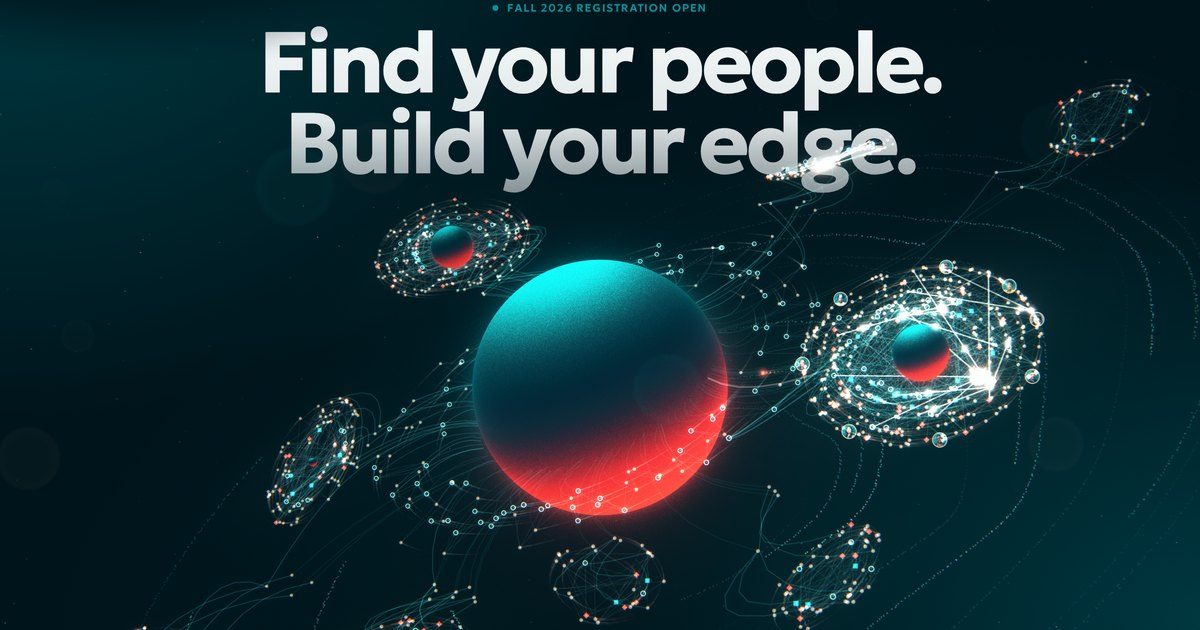
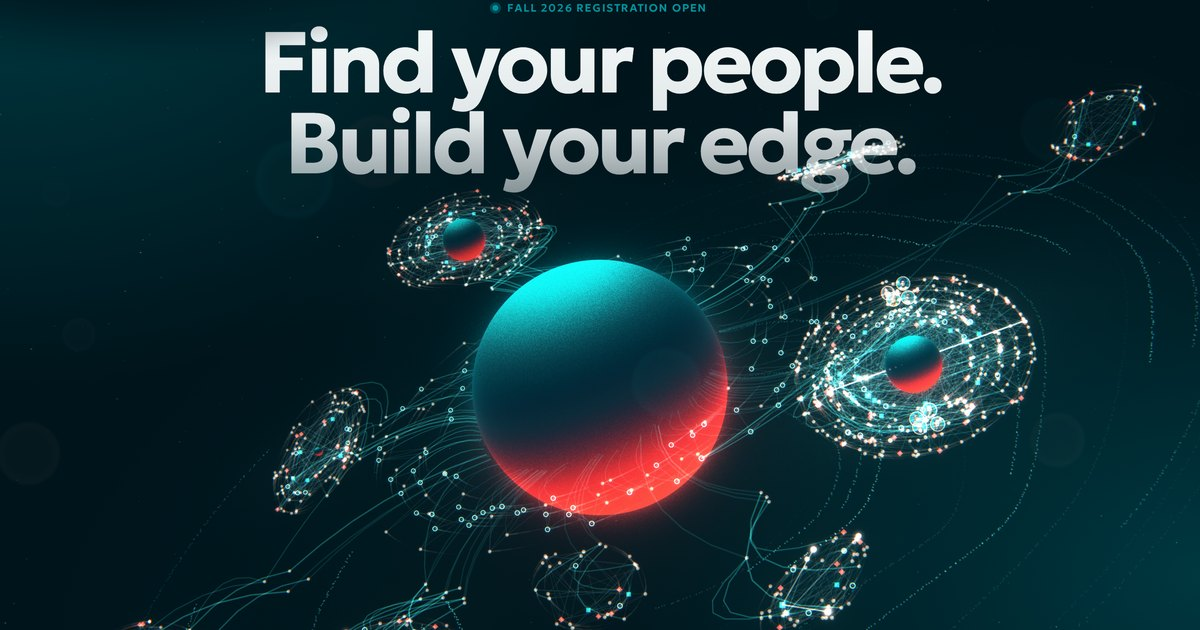
Home: recruit Upskillers and Mentors, benefits first
The hero's story now gives the core benefits one line at a time instead of
explaining the structure: learn by building something real, on a team; free,
in person, beside people who've been where you are (the camera closes on a
Pod, four of the cohort's faces round their project, while the rest of the
network steps back); what you build travels further than you; be part of
something bigger. It ends in two paths, Upskiller and Mentor, with "Most
people end up doing both." The legend is gone. The roles section shows the
two cards under "Learn it. Then pass it on." The intro and the build line
no longer make it about AI alone.

Also: actors size by the shot's framing and flashes and sparks soften where a
narrow screen packs the network tight, so phones don't blur a Lab into
white; the still frame ends after the sparks settle; the intro's faces get
back the styles #36 dropped; the poster and share image are re-rendered.

Claude-Session: https://claude.ai/code/session_01XKsNEHi8zSBaP9Uzfm5Zkd

diff --git a/src/scripts/orbnet.ts b/src/scripts/orbnet.ts
@@ -27,11 +27,13 @@
    cross, adopters form new ties, and what reaches the orb leaves new knowledge
    in the commons. Everything leaves a fading trail along its orbit.
 
-   The story (the page's scroll moves the camera through five shots):
+   The story, for the people we're recruiting (Upskillers and Mentors): it
+   doesn't explain the structure, it shows what you get and what you join.
+   The page's scroll moves the camera through five shots:
      0  the logo's view: the orb and the system round it, under the title
-     1  actors: inside the DC Lab, where the four kinds of actor are labelled
-     2  gravity: above the Labs, their wells and their pull
-     3  ideas: a spark from DC up to the orb and back out to every Lab
+     1  build: inside the DC Lab, projects sparking as people build
+     2  together: close on DC's people, the first cohort's faces lit
+     3  bigger: a spark from DC up to the orb and back out to every Lab
      4  you: the whole system from above; your cursor is a newcomer, and
         clicking (or tapping) joins you to the nearest Lab, with a spark
 
@@ -79,12 +81,12 @@ function mulberry(seed: number) {
 
 /* ── the story's shots: where the camera is at each beat ── */
 
-interface Shot { at: number; target: "orb" | "dc" | "between"; halfW: number; elev: number; roll: number; oElev: number; oRoll: number; yaw: number; sx: number; sy: number; px: number; py: number }
+interface Shot { at: number; target: "orb" | "dc" | "between" | "pod"; halfW: number; elev: number; roll: number; oElev: number; oRoll: number; yaw: number; sx: number; sy: number; px: number; py: number; pz?: number } // pz: how much closer a portrait screen frames it (0.6)
 const SHOTS: Shot[] = [
   { at: 0.0, target: "orb", halfW: 4.7, elev: 27, roll: 28, oElev: 15.4, oRoll: 22.5, yaw: 0, sx: 0, sy: -0.3, px: 0, py: -0.14 }, // the logo's view, under the title
-  { at: 0.25, target: "dc", halfW: 1.7, elev: 40, roll: 14, oElev: 28, oRoll: 16, yaw: -14, sx: 0.16, sy: 0.05, px: 0, py: 0.16 }, // inside a Lab
-  { at: 0.47, target: "between", halfW: 3.6, elev: 58, roll: 10, oElev: 38, oRoll: 12, yaw: 8, sx: 0.14, sy: 0.04, px: 0, py: 0.18 }, // gravity
-  { at: 0.69, target: "orb", halfW: 3.9, elev: 30, roll: 24, oElev: 18, oRoll: 21, yaw: -6, sx: 0.12, sy: 0.05, px: 0, py: 0.18 }, // an idea travels
+  { at: 0.25, target: "dc", halfW: 1.9, elev: 40, roll: 14, oElev: 28, oRoll: 16, yaw: -14, sx: 0.16, sy: 0.05, px: 0, py: 0.16 }, // build: inside a Lab
+  { at: 0.47, target: "pod", halfW: 0.62, elev: 30, roll: 6, oElev: 18, oRoll: 10, yaw: 20, sx: 0.2, sy: 0.02, px: 0, py: 0.22, pz: 0.45 }, // together: close on a Pod
+  { at: 0.69, target: "between", halfW: 3.9, elev: 30, roll: 24, oElev: 18, oRoll: 21, yaw: -6, sx: 0.12, sy: 0.05, px: 0, py: 0.18 }, // bigger: what you build travels
   { at: 0.92, target: "orb", halfW: 5.3, elev: 64, roll: 12, oElev: 40, oRoll: 16, yaw: 0, sx: 0.12, sy: 0.02, px: 0, py: 0.44 }, // you (on phones, high: the choice fills the lower half)
 ];
 /** Where each shot sits in the story's progress, for the page's chapter rail. */
@@ -122,6 +124,8 @@ class Model {
   labs: Lab[] = []; pulses: Pulse[] = []; ideas: Idea[] = []; ripples: { t0: number; s: number }[] = [];
   orbFlash = 0; kick = 0; ideaId = 0; nextMinor = 3.4; nextMajor = 4.2; nextSpawn = 4; startN = 0; tiesDirty = true;
   cursor: V3 | null = null;
+  pods: { project: number; members: number[] }[] = [];
+  podOf = new Map<number, number>();
 
   J(a: number) { return (this.rnd() * 2 - 1) * a; }
   pick<T>(a: T[]): T { return a[Math.floor(this.rnd() * a.length)]; }
@@ -180,10 +184,28 @@ class Model {
       }
     });
     this.labs.forEach((L) => { L.cap = L.mass * 1.35; });
-    // Some of DC's people are real: the first cohort's faces, spread round its outer orbits.
-    const dcPeople = this.labs[0].nodes.filter((i) => this.nodes[i].type === HUMAN).sort((a, b) => this.nodes[b].r - this.nodes[a].r).slice(0, 60);
-    dcPeople.sort((a, b) => this.nodes[a].th - this.nodes[b].th);
-    for (let f = 0; f < 8 && dcPeople.length; f++) this.nodes[dcPeople[Math.floor((f / 8) * dcPeople.length)]].face = f;
+    // Some of DC's people are real: the first cohort's faces, as two Pods of four, each round a project
+    // they're building, orbiting together (the "together" shot looks at the first).
+    const dc = this.labs[0];
+    const dcProjects = dc.nodes.filter((i) => this.nodes[i].type === PROJECT);
+    const free = dc.nodes.filter((i) => this.nodes[i].type === HUMAN);
+    for (let pod = 0; pod < 2 && dcProjects.length > pod; pod++) {
+      const pj = this.nodes[dcProjects[pod * Math.floor(dcProjects.length / 2)]];
+      pj.r = dc.size * (0.62 + 0.18 * pod); pj.th = pod * Math.PI + 0.4;
+      const members: number[] = [];
+      for (let k = 0; k < 4 && free.length; k++) {
+        const i = free.splice(Math.floor(this.rnd() * free.length), 1)[0];
+        const n = this.nodes[i];
+        // Round their project like a team round a table: a small ring, turning with it.
+        const phi = k * Math.PI / 2 + 0.6;
+        n.face = pod * 4 + k; n.r = pj.r + 0.085 * Math.cos(phi); n.th = pj.th + 0.085 * Math.sin(phi) / pj.r; n.y = pj.y + 0.02 * Math.sin(phi * 2);
+        this.link(i, dcProjects[pod * Math.floor(dcProjects.length / 2)]);
+        members.forEach((m) => this.link(i, m));
+        members.push(i);
+      }
+      this.pods.push({ project: dcProjects[pod * Math.floor(dcProjects.length / 2)], members });
+      [dcProjects[pod * Math.floor(dcProjects.length / 2)], ...members].forEach((i) => this.podOf.set(i, pod));
+    }
     this.startN = this.nodes.length;
     this.positions(0, 0);
     // The opening: everything gathers into its orbit from further out.
@@ -194,6 +216,16 @@ class Model {
   }
 
   add(a: Actor) { this.nodes.push(a); this.adj.push([]); return this.nodes.length - 1; }
+  inPod(i: number) { return this.podOf.has(i); }
+  /** A tie inside a Pod: both ends on the same team. */
+  podTie(e: Tie) { const a = this.podOf.get(e.a); return a !== undefined && a === this.podOf.get(e.b); }
+  /** Where the first Pod is now: the "together" shot looks at it. */
+  podCenter(): V3 {
+    const p = this.pods[0]; if (!p) return this.labs[0].c;
+    const ids = [p.project, ...p.members]; const c: V3 = [0, 0, 0];
+    ids.forEach((i) => { const q = this.nodes[i].p; c[0] += q[0]; c[1] += q[1]; c[2] += q[2]; });
+    return [c[0] / ids.length, c[1] / ids.length, c[2] / ids.length];
+  }
   linked(a: number, b: number) { return this.adj[a].some((e) => { const t = this.ties[e]; return (t.a === a && t.b === b) || (t.b === a && t.a === b); }); }
   link(a: number, b: number, bridge = false) {
     if (a === b || this.ties.length >= MAX_EDGES || this.linked(a, b)) return;
@@ -234,7 +266,7 @@ class Model {
       let w: number;
       if (n.c >= 0) {
         const pull = Math.sqrt(Math.max(this.labs[n.c].mass, 6) / 260);
-        w = clamp(0.13 * pull * Math.pow(0.45 / Math.max(n.r, 0.08), 1.5), 0.012, 0.42);
+        w = clamp(0.13 * pull * Math.pow(0.45 / Math.max(n.face !== undefined || this.inPod(i) ? this.labs[0].size * 0.7 : n.r, 0.08), 1.5), 0.012, 0.42);
       } else w = 0.07;
       if (n.anchor === undefined) n.th += w * dt;
       let target = n.anchor !== undefined ? [Math.cos(this.labs[n.anchor].th + n.th) * n.r, n.y, Math.sin(this.labs[n.anchor].th + n.th) * n.r] as V3 : this.orbitAt(n, n.th);
@@ -374,11 +406,16 @@ class Model {
     }
   }
 
-  step(dt: number, t: number, live: boolean, dcOnly: boolean) {
+  step(dt: number, t: number, live: boolean, dcOnly: boolean, dcBuild = false, podFocus = false) {
     if (live) {
-      // A heartbeat: a big idea every few seconds, small local ones between.
+      // A heartbeat: a big idea every few seconds, small local ones between (in DC while we're looking at it).
       if (t > this.nextMajor) { this.innovate(t, { lab: dcOnly ? 0 : undefined, major: true }); this.nextMajor = t + (dcOnly ? 3.4 : 4.6); this.nextMinor = t + 1.5; }
-      if (t > this.nextMinor) { this.innovate(t, { major: false }); this.nextMinor = t + 1.5; }
+      if (t > this.nextMinor) {
+        // Looking at a Pod: its ideas pass round the team.
+        const pd = podFocus ? this.pods[0] : undefined;
+        this.innovate(t, pd ? { from: this.pick([pd.project, ...pd.members]), major: false } : { lab: dcBuild ? 0 : undefined, major: false });
+        this.nextMinor = t + (pd ? 1.3 : dcBuild ? 1.1 : 1.5);
+      }
       if (t > this.nextSpawn) { this.spawn(t); this.nextSpawn = t + 0.8 + this.rnd() * 1.1; }
     }
     this.positions(dt, t);
@@ -424,7 +461,7 @@ const ACTOR_VS = `#version 300 es
 precision highp float;
 ${GLSL_CAM}
 ${GLSL_STATE}
-uniform float uPx; uniform int uFirst; uniform float uFocus; uniform float uFocusAmt; uniform float uZoom;
+uniform float uPx; uniform int uFirst; uniform float uFocus; uniform float uFocusAmt; uniform float uZoom; uniform float uDense;
 out vec4 vC; out float vShape; out float vFlash; out float vNear;
 void main() {
   int id = gl_VertexID + uFirst;
@@ -436,8 +473,9 @@ void main() {
   float g = S.w;
   float f = g < -0.5 ? 1.0 - 0.4 * uFocusAmt : (abs(g - uFocus) < 0.5 ? 1.0 + 0.8 * uFocusAmt : 1.0 - 0.6 * uFocusAmt);
   vC = vec4(colOf(S.z), P.w * f * (1.0 + 0.12 * depth));
-  vShape = S.z; vFlash = S.x; vNear = max(depth, 0.0);
-  gl_PointSize = S.y * uPx * uZoom * (uD / -v.z) * (1.0 + 0.12 * max(depth, 0.0) - 0.1 * max(-depth, 0.0)) * (1.0 + (S.z > 9.5 ? 0.15 : 0.6) * S.x);
+  float fl = S.z > 9.5 ? 1.0 : 0.4 + 0.6 * uDense; // where the network is packed tight on screen, a flash is smaller
+  vShape = S.z; vFlash = S.x * fl; vNear = max(depth, 0.0);
+  gl_PointSize = S.y * uPx * uZoom * (uD / -v.z) * (1.0 + 0.12 * max(depth, 0.0) - 0.1 * max(-depth, 0.0)) * (1.0 + (S.z > 9.5 ? 0.15 : 0.6 * fl) * S.x);
 }`;
 
 // Sparks and stars: points the CPU places (S: size, shape, flash, alpha; C: rgb, and for a star its depth).
@@ -520,9 +558,9 @@ ${GLSL_STATE}
 ${GLSL_QUAD}
 layout(location = 0) in vec2 aCorner;  // along (0, 1), side (-1, 1)
 layout(location = 1) in vec4 aTie;     // end a, end b (-1: the orb), segment (-1: straight), tie index
-layout(location = 2) in vec4 aKind;    // bridge, Lab of a, Lab of b, is-cursor
+layout(location = 2) in vec4 aKind;    // kind (0 a tie, 1 a bridge, 2 inside a Pod), Lab of a, Lab of b, is-cursor
 uniform highp sampler2D uTies;         // strength, flash
-uniform float uPx; uniform float uFocus; uniform float uFocusAmt; uniform int uTieW;
+uniform float uPx; uniform float uFocus; uniform float uFocusAmt; uniform int uTieW; uniform float uPod; uniform float uDense;
 vec3 orbEnd(vec3 o) { float l = max(length(o), 1e-3); return o / l * 1.03; }
 void main() {
   int ia = int(aTie.x), ib = int(aTie.y), ti = int(aTie.w);
@@ -538,13 +576,17 @@ void main() {
   }
   vec2 st = aKind.w > 0.5 ? vec2(1.0, 0.0) : texelFetch(uTies, ivec2(ti % uTieW, ti / uTieW), 0).xy;
   if (vis <= 0.002 || culled(M)) { gl_Position = vec4(2.0, 2.0, 2.0, 1.0); return; }
-  bool bridge = aKind.x > 0.5;
+  bool bridge = abs(aKind.x - 1.0) < 0.5, pod = aKind.x > 1.5;
+  // Close on a Pod: the team's own ties warm and brighten; everything else steps back.
+  if (!pod) { st.y *= (1.0 - 0.8 * uPod) * (0.35 + 0.65 * uDense); }
   float foc = uFocusAmt > 0.0 ? ((abs(aKind.y - uFocus) < 0.5 || abs(aKind.z - uFocus) < 0.5) ? 1.0 + 1.2 * uFocusAmt : 1.0 - 0.55 * uFocusAmt) : 1.0;
   float front = ib < 0 && (uM * M).z > 0.0 ? 0.35 : 1.0;
   float base = (bridge || ib < 0 ? 0.3 : 0.16) * st.x * foc * vis * front;
   vec3 col = mix(bridge || ib < 0 ? vec3(0.24, 0.9, 0.88) : vec3(0.5, 0.78, 0.8), vec3(1.0, 0.98, 0.94) * 1.25, st.y);
   if (aKind.w > 0.5) { col = vec3(1.0, 0.8, 0.55); base = 0.35 * vis; }
-  float width = ((bridge ? 1.3 : 0.85) + 0.45 * (st.x - 1.0) + 0.7 * st.y) * uPx;
+  if (pod) { col = mix(col, mix(vec3(1.0, 0.82, 0.62), vec3(1.0, 0.97, 0.9) * 1.25, st.y), uPod); base += 0.4 * uPod * vis; }
+  else base *= (1.0 - 0.55 * uPod) * (0.6 + 0.4 * uDense);
+  float width = ((bridge ? 1.3 : 0.85) + 0.45 * (st.x - 1.0) + 0.7 * st.y + (pod ? 0.8 * uPod : 0.0)) * uPx;
   quad(A, B, aCorner.x, aCorner.y, width, vec4(col, base + st.y * 0.4 * front));
 }`;
 
@@ -822,7 +864,7 @@ function compile(gl: WebGL2RenderingContext, vs: string, fs: string) {
   return { prog, U };
 }
 
-export interface FrameState { p: number; beats: number[]; legend: ({ x: number; y: number } | null)[]; you: { x: number; y: number } | null; orb: { x: number; y: number; r: number }; paused: boolean }
+export interface FrameState { p: number; beats: number[]; you: { x: number; y: number } | null; orb: { x: number; y: number; r: number }; paused: boolean }
 export interface OrbNetOptions { still?: boolean; poster?: boolean; story?: HTMLElement; stage?: HTMLElement; faces?: string[]; onFrame?: (s: FrameState) => void }
 export interface OrbNet { setPaused(v: boolean): void; paused(): boolean; setOrbHover(v: boolean): void }
 
@@ -1005,9 +1047,9 @@ export function mountOrbNet(wrap: HTMLElement, opts: OrbNetOptions = {}): OrbNet
   readScroll();
 
   /* the camera */
-  let cam = { M: [1, 0, 0, 0, 1, 0, 0, 0, 1] as M3, O: [1, 0, 0, 0, 1, 0, 0, 0, 1] as M3, T: [0, 0, 0] as V3, halfW: 4.7, tanX: 0.15, tanY: 0.1, sh: [0, 0] as [number, number] };
+  let cam = { M: [1, 0, 0, 0, 1, 0, 0, 0, 1] as M3, O: [1, 0, 0, 0, 1, 0, 0, 0, 1] as M3, T: [0, 0, 0] as V3, halfW: 4.7, zoomW: 4.7, dense: 1, tanX: 0.15, tanY: 0.1, sh: [0, 0] as [number, number] };
   const D = 30;
-  const shotTarget = (s: Shot): V3 => s.target === "dc" ? model.labs[0].c : s.target === "between" ? [model.labs[0].c[0] * 0.45, 0, model.labs[0].c[2] * 0.45] : [0, 0, 0];
+  const shotTarget = (s: Shot): V3 => s.target === "pod" ? model.podCenter() : s.target === "dc" ? model.labs[0].c : s.target === "between" ? [model.labs[0].c[0] * 0.45, 0, model.labs[0].c[2] * 0.45] : [0, 0, 0];
   const camera = (p: number, t: number) => {
     let i = 0; while (i < SHOTS.length - 2 && p > SHOTS[i + 1].at) i++;
     const a = SHOTS[i], b = SHOTS[i + 1];
@@ -1021,10 +1063,14 @@ export function mountOrbNet(wrap: HTMLElement, opts: OrbNetOptions = {}): OrbNet
     const orbV = mul(par, mul(rz(L("oRoll") * DEG), rx(L("oElev") * DEG)));
     // Portrait screens frame closer (the system runs off the sides), and keep the lower third for the lines.
     const portrait = cssW < cssH;
-    const halfW = L("halfW") * (portrait ? 0.6 : cssW < 900 ? 0.85 : 1) * (1 - 0.018 * shake);
+    const halfW = L("halfW") * (portrait ? lerp(a.pz ?? 0.6, b.pz ?? 0.6, k) : cssW < 900 ? 0.85 : 1) * (1 - 0.018 * shake);
     const tanX = halfW / D, tanY = tanX / (W / H);
     const sh: [number, number] = portrait ? [L("px"), L("py")] : [L("sx"), L("sy")];
-    cam = { M, O: orbV, T, halfW, tanX, tanY, sh };
+    // Actors grow as the shot closes in, by the shot's own framing: a narrow screen's closer crop
+    // doesn't make them bigger, or a Lab seen whole on a phone crowds into a white blur.
+    // And how tightly the network packs onto this screen, next to a wide desktop's view of the same shot.
+    const dense = clamp((cssW * L("halfW")) / (1440 * halfW), 0.45, 1);
+    cam = { M, O: orbV, T, halfW, zoomW: L("halfW"), dense, tanX, tanY, sh };
   };
   /** Where the pointer (CSS px in the canvas) meets the network's plane. */
   const pickPlane = (cx: number, cy: number): V3 | null => {
@@ -1046,9 +1092,8 @@ export function mountOrbNet(wrap: HTMLElement, opts: OrbNetOptions = {}): OrbNet
   /* the frame */
   const t0 = performance.now();
   let last = t0, lastReal = t0, simT = 0, frame = 0, introT = 0;
-  let legendPick: number[] = [];
   const fps = { acc: 0, n: 0 };
-  if (still) { for (let i = 0; i < 600; i++) { simT += 1 / 60; model.step(1 / 60, simT, i > 320, false); } }
+  if (still) { for (let i = 0; i < 720; i++) { simT += 1 / 60; model.step(1 / 60, simT, i > 320 && i < 570, false); } } // a still: the last sparks settling, not mid-burst
 
   function draw(now: number) {
     const dt = still || pausedFlag ? 0 : Math.min(0.05, (now - last) / 1000);
@@ -1060,7 +1105,7 @@ export function mountOrbNet(wrap: HTMLElement, opts: OrbNetOptions = {}): OrbNet
     const ease60 = (k: number) => 1 - Math.pow(1 - k, rdt * 60);
     scrollE = still ? scrollP : lerp(scrollE, scrollP, ease60(0.1));
     const p = scrollE, beats = beatWeights(p);
-    if (!still && !pausedFlag) { simT += dt; introT += dt; model.step(dt, simT, simT > 3.2, beats[3] > 0.5); }
+    if (!still && !pausedFlag) { simT += dt; introT += dt; model.step(dt, simT, simT > 3.2, beats[3] > 0.5, beats[1] + beats[2] > 0.5, beats[2] > 0.5); }
     const t = simT, grow = still ? 1 : clamp(introT / 3.4, 0, 1), g = 1 - Math.pow(1 - grow, 3);
     ptr.x = lerp(ptr.x, ptr.tx, ease60(0.06)); ptr.y = lerp(ptr.y, ptr.ty, ease60(0.06));
     orbHover = lerp(orbHover, orbHoverT, ease60(0.12));
@@ -1091,7 +1136,7 @@ export function mountOrbNet(wrap: HTMLElement, opts: OrbNetOptions = {}): OrbNet
       posArr[o] = a.p[0]; posArr[o + 1] = a.p[1]; posArr[o + 2] = a.p[2]; posArr[o + 3] = base * lit * born * (a.arrive && !a.arrive.intro ? 0.7 : 1);
       const size = a.face !== undefined ? 19 : a.type === YOU ? 12 : (a.type === HUMAN ? 7 : a.type === PLACE ? 9.5 : 10) * (1 + 0.08 * Math.sqrt(a.deg));
       if (a.face !== undefined) posArr[o + 3] = lit * born;
-      stArr[o] = a.type === YOU ? Math.max(a.flash, 0.5) : a.flash; stArr[o + 1] = size; stArr[o + 2] = a.face !== undefined ? 10 + a.face : a.type; stArr[o + 3] = a.c;
+      stArr[o] = a.type === YOU ? Math.max(a.flash, 0.5) : a.face !== undefined ? Math.max(a.flash, 0.55 * beats[2]) : a.flash; stArr[o + 1] = size; stArr[o + 2] = a.face !== undefined ? 10 + a.face : a.type; stArr[o + 3] = a.c;
       const trail = a.anchor !== undefined || a.arrive ? 0 : a.c < 0 ? 1 : a.c + 2;
       orbArr[o] = a.r; orbArr[o + 1] = a.th; orbArr[o + 2] = a.y; orbArr[o + 3] = trail;
     }
@@ -1110,7 +1155,7 @@ export function mountOrbNet(wrap: HTMLElement, opts: OrbNetOptions = {}): OrbNet
       model.ties.forEach((e, ti) => {
         const la = model.nodes[e.a].c, lb = e.b >= 0 ? model.nodes[e.b].c : -1;
         if ((e.bridge || e.b < 0) && k < MAX_TI - 16) for (let s = 0; s < 6; s++) put(e.a, e.b, s, ti, e.bridge ? 1 : 0, la, lb, 0);
-        else put(e.a, e.b, -1, ti, 0, la, lb, 0);
+        else put(e.a, e.b, -1, ti, model.podTie(e) ? 2 : 0, la, lb, 0);
       });
       tieFixed = k; model.tiesDirty = false;
     }
@@ -1126,7 +1171,9 @@ export function mountOrbNet(wrap: HTMLElement, opts: OrbNetOptions = {}): OrbNet
     gl!.bindTexture(gl!.TEXTURE_2D, tieTex); gl!.texSubImage2D(gl!.TEXTURE_2D, 0, 0, 0, TIEW, Math.ceil(model.ties.length / TIEW), gl!.RGBA, gl!.FLOAT, tieArr, 0);
     // Sparks.
     let sn = 0;
-    const putS = (q: V3, size: number, alpha: number, c: V3) => { const o = sn * 11; sparkArr.set([q[0], q[1], q[2], size, 5, 0, alpha, c[0], c[1], c[2], -1], o); sn++; };
+    // Smaller and softer where the network packs tight on screen, so a busy Lab on a phone stays a Lab.
+    const sS = 0.55 + 0.45 * cam.dense, sA = 0.5 + 0.5 * cam.dense;
+    const putS = (q: V3, size: number, alpha: number, c: V3) => { const o = sn * 11; sparkArr.set([q[0], q[1], q[2], size * sS, 5, 0, alpha * sA, c[0], c[1], c[2], -1], o); sn++; };
     for (const pu of model.pulses) {
       if (t < pu.t0) continue;
       const u = clamp((t - pu.t0) / pu.dur, 0, 1);
@@ -1175,7 +1222,7 @@ export function mountOrbNet(wrap: HTMLElement, opts: OrbNetOptions = {}): OrbNet
     };
     const drawTies = (side: number) => {
       add(); gl!.useProgram(P.tie.prog); gl!.bindVertexArray(TI.v); camU(P.tie.U, side); stateU(P.tie.U); focusU(P.tie.U);
-      gl!.activeTexture(gl!.TEXTURE4); gl!.bindTexture(gl!.TEXTURE_2D, tieTex); gl!.uniform1i(P.tie.U.uTies, 4); gl!.uniform1i(P.tie.U.uTieW, TIEW);
+      gl!.activeTexture(gl!.TEXTURE4); gl!.bindTexture(gl!.TEXTURE_2D, tieTex); gl!.uniform1i(P.tie.U.uTies, 4); gl!.uniform1i(P.tie.U.uTieW, TIEW); gl!.uniform1f(P.tie.U.uPod, beats[2]); gl!.uniform1f(P.tie.U.uDense, cam.dense);
       gl!.uniform2f(P.tie.U.uRes, W, H); gl!.uniform1f(P.tie.U.uPx, dpr * quality);
       gl!.drawArraysInstanced(gl!.TRIANGLE_STRIP, 0, 4, tieCount);
     };
@@ -1186,7 +1233,7 @@ export function mountOrbNet(wrap: HTMLElement, opts: OrbNetOptions = {}): OrbNet
     };
     const drawActors = (side: number) => {
       add(); gl!.useProgram(P.actor.prog); gl!.bindVertexArray(EMPTY); camU(P.actor.U, side); stateU(P.actor.U); focusU(P.actor.U);
-      gl!.uniform1f(P.actor.U.uPx, px); gl!.uniform1i(P.actor.U.uFirst, 0); gl!.uniform1f(P.actor.U.uZoom, Math.pow(clamp(4.7 / cam.halfW, 1, 2.8), 0.7));
+      gl!.uniform1f(P.actor.U.uPx, px); gl!.uniform1i(P.actor.U.uFirst, 0); gl!.uniform1f(P.actor.U.uZoom, Math.pow(clamp(4.7 / cam.zoomW, 1, 2.8), 0.7)); gl!.uniform1f(P.actor.U.uDense, cam.dense);
       gl!.activeTexture(gl!.TEXTURE5); gl!.bindTexture(gl!.TEXTURE_2D, facesTex); gl!.uniform1i(P.actor.U.uFaces, 5); gl!.uniform1f(P.actor.U.uFacesReady, facesReady);
       gl!.drawArrays(gl!.POINTS, 0, N);
       if (model.cursor) { gl!.uniform1i(P.actor.U.uFirst, CURSOR); gl!.drawArrays(gl!.POINTS, 0, 1); }
@@ -1258,25 +1305,10 @@ export function mountOrbNet(wrap: HTMLElement, opts: OrbNetOptions = {}): OrbNet
 
     if (!wrap.classList.contains("is-live")) wrap.classList.add("is-live");
 
-    // Tell the page what's on screen: the story's progress, each beat's weight, where the legend's actors are, and you.
+    // Tell the page what's on screen: the story's progress, each beat's weight, the orb, and you.
     if (opts.onFrame) {
-      if (beats[1] > 0.01) {
-        if (!legendPick.length || legendPick.some((i) => { if (i < 0) return true; const s = project(model.nodes[i].p); return s.x < cssW * 0.12 || s.x > cssW * 0.92 || s.y < cssH * 0.2 || s.y > cssH * 0.85; })) {
-          legendPick = [HUMAN, PLACE, PROJECT, KNOW].map((type) => {
-            let best = -1, bs = -1e9;
-            for (const i of model.labs[0].nodes) {
-              const a = model.nodes[i]; if (a.type !== type || a.arrive) continue;
-              const s = project(a.p); if (s.x < cssW * 0.28 || s.x > cssW * 0.88 || s.y < cssH * 0.22 || s.y > cssH * 0.84) continue;
-              const score = s.z - Math.abs(s.x - cssW * 0.58) * 0.002 + (a.face !== undefined ? 50 : 0);
-              if (score > bs) { bs = score; best = i; }
-            }
-            return best;
-          });
-        }
-      } else legendPick = [];
       opts.onFrame({
         p, beats, paused: pausedFlag,
-        legend: [0, 1, 2, 3].map((k) => { const i = legendPick[k]; if (i === undefined || i < 0) return null; const s = project(model.nodes[i].p); return { x: s.x, y: s.y }; }),
         you: model.cursor ? (() => { const s = project(model.cursor!); return { x: s.x, y: s.y }; })() : null,
         orb: (() => { const s = project([0, 0, 0]); return { x: s.x, y: s.y, r: (1 / (-s.z * cam.tanX)) * 0.5 * cssW }; })(),
       });

diff --git a/src/styles/home.css b/src/styles/home.css
@@ -44,20 +44,16 @@
 .hm-path span { font-size: 12px; font-weight: 600; letter-spacing: 0.08em; text-transform: uppercase; color: var(--teal); }
 .rp .hm-path:hover, .rp .hm-path:focus-visible { border-color: var(--teal); background: rgba(0, 148, 160, 0.16); }
 .hm-path:focus-visible { outline: 2px solid var(--teal); outline-offset: 2px; }
-.hm-curious { display: inline-block; margin-top: 14px; font-size: var(--fs-sm); font-weight: 600; }
+.hm-both { margin: 12px 0 0; font-size: var(--fs-sm); color: var(--t2); }
+.hm-curious { display: inline-block; margin-top: 10px; font-size: var(--fs-sm); font-weight: 600; }
 .hm-beat-hint { margin: 14px 0 0; font-size: var(--fs-sm); color: var(--t2); }
 .hm-beat-hint .coarse { display: none; }
 @media (hover: none) { .hm-beat-hint .fine { display: none; } .hm-beat-hint .coarse { display: inline; } }
 
-/* The legend: the four kinds of actor, each pinned to a real one in the DC Lab. */
-.hm-legend { margin: 0; padding: 0; list-style: none; }
+/* "You": a tag that follows your cursor, a newcomer in the system. */
 .hm-tag { position: absolute; z-index: 3; left: 0; top: 0; margin: 0; display: inline-flex; align-items: center; gap: 8px; padding: 5px 10px 5px 8px; border: 1px solid rgba(255, 255, 255, 0.16); border-radius: 999px; background: rgba(0, 20, 27, 0.62); -webkit-backdrop-filter: blur(6px); backdrop-filter: blur(6px);
   font-size: 12px; font-weight: 600; letter-spacing: 0.08em; text-transform: uppercase; color: var(--t1); white-space: nowrap; opacity: 0; pointer-events: none; translate: 14px -50%; transition: opacity 0.2s; will-change: transform, opacity; }
 .mk { display: block; width: 9px; height: 9px; flex: none; }
-.mk-0 { border-radius: 50%; background: #FFDBBD; }
-.mk-1 { border-radius: 1px; background: #24D6DB; }
-.mk-2 { width: 8px; height: 8px; rotate: 45deg; background: #FF5C47; }
-.mk-3 { border-radius: 50%; border: 2px solid #9EFFF7; }
 .mk-you { border-radius: 50%; background: #FFC880; box-shadow: 0 0 10px 2px rgba(255, 200, 128, 0.7); }
 .hm-you { translate: 16px -50%; color: #FFE3C2; }
 
@@ -97,11 +93,19 @@
 .is-still .hm-beat-hint { display: none; }
 .is-still .hm-beat { position: static; opacity: 1 !important; transform: none !important; }
 .is-still .hm-beat-line { font-size: var(--fs-lead); }
-.is-still .hm-cue, .is-still .hm-legend, .is-still .hm-you { display: none; }
+.is-still .hm-cue, .is-still .hm-you { display: none; }
 
 .hm-actions { display: flex; flex-wrap: wrap; align-items: center; justify-content: center; gap: 16px 28px; }
 .hm-actions .textlink { font-size: 17px; font-weight: 600; }
 .rp .ghost.small { min-height: 44px; padding: 0 18px; font-size: 15px; }
+
+/* ── intro: the cohort's faces, overlapping, over how many people are in so far. ── */
+.hm-people { margin-top: 36px; display: flex; flex-direction: column; align-items: center; gap: 14px; }
+.hm-faces { list-style: none; margin: 0; padding: 0; display: flex; }
+.hm-faces li { width: 56px; height: 56px; margin-left: -12px; border-radius: 50%; border: 2px solid var(--ink); overflow: hidden; background: var(--ink); }
+.hm-faces li:first-child { margin-left: 0; }
+.hm-faces img { display: block; width: 100%; height: 100%; object-fit: cover; }
+.hm-people p { margin: 0; font-size: var(--fs-sm); font-weight: 600; color: var(--t2); }
 
 /* ── the next Build Cycle: a band lit by the glows, with the Upskiller button. ── */
 .hm-cycle { position: relative; isolation: isolate; margin-top: clamp(112px, 16vh, 164px); padding: clamp(72px, 10vh, 120px) 0; overflow-x: clip; }
@@ -129,6 +133,10 @@
 .hm-learn { list-style: none; margin: clamp(56px, 7vw, 96px) 0 0; padding: 0; display: grid; grid-template-columns: repeat(3, minmax(0, 1fr)); column-gap: var(--gut); }
 .hm-learn h3 { margin: 0; font-size: var(--fs-lead); font-weight: 600; letter-spacing: -0.02em; color: var(--t1); }
 .hm-learn p { margin: 12px 0 0; max-width: 32ch; font-size: var(--fs-body); line-height: 1.55; color: var(--t2); }
+
+/* ── roles: the two ways in, side by side. ── */
+.rp .rp-cards.hm-two { grid-template-columns: repeat(2, minmax(0, 1fr)); grid-auto-flow: row; max-width: 820px; margin-inline: auto; overflow: visible; }
+@media (max-width: 680px) { .rp .rp-cards.hm-two { grid-template-columns: minmax(0, 1fr); } }
 
 /* ── the room: a real evening at the library, full bleed, fading into the ink. ── */
 .hm-room { position: relative; isolation: isolate; margin-top: clamp(96px, 14vh, 160px); min-height: clamp(460px, 78vh, 820px); display: flex; align-items: flex-end; overflow: hidden; }

diff --git a/README.md b/README.md
@@ -69,7 +69,7 @@ These also need real values:
 
 | Route | What |
 | --- | --- |
-| `/` | **Unlisted** (`noindex`): The Upskilling Labs home page, a prototype of the pre-login experience for OLOS (the app behind theupskillinglabs.org) to adopt. It keeps the live home page's facts and its one action (Join The Labs), in the order a newcomer needs them: the hero (the open cycle as its eyebrow, "Find your people. Build your edge.", and a live model of The Labs round the orb: `src/scripts/orbnet.ts`, below), the cohort's faces under the intro, what this is (four facts), how it works (workshop, the three months of a Build Cycle, giving back), the next Build Cycle with the Upskiller button, sessions to drop into and what they teach, a real evening at the library (Pull up a chair), find your role (the five role pages), Upskiller spotlights with their portraits, local Labs, our story, join, and the live site's footer columns. It's built on the role pages' system (`src/styles/role.css`, plus `src/styles/home.css`). Copy in `content/site/home.json`; the sessions, cities and member count there are a snapshot from Sep 29, 2026 that OLOS would fill from its own data, and links point at the live site. The Ambassador program page moved to `/ambassador/`; `/join/` redirects there. The faces and the room are OLOS's own photos (`public/assets/cohort-grid-sample.png`, `spotlights/`, `img_9531.jpg`), cropped into `public/home/`. |
+| `/` | **Unlisted** (`noindex`): The Upskilling Labs home page, a prototype of the pre-login experience for OLOS (the app behind theupskillinglabs.org) to adopt. It keeps the live home page's facts and its one action (Join The Labs), in the order a newcomer needs them: the hero (the open cycle as its eyebrow, "Find your people. Build your edge.", and a live model of The Labs round the orb: `src/scripts/orbnet.ts`, below), the cohort's faces under the intro, what this is (four facts), how it works (workshop, the three months of a Build Cycle, giving back), the next Build Cycle with the Upskiller button, sessions to drop into and what they teach, a real evening at the library (Pull up a chair), two ways in (Upskiller and Mentor, the two roles the page recruits for; most people end up doing both), Upskiller spotlights with their portraits, local Labs, our story, join, and the live site's footer columns. It's built on the role pages' system (`src/styles/role.css`, plus `src/styles/home.css`). Copy in `content/site/home.json`; the sessions, cities and member count there are a snapshot from Sep 29, 2026 that OLOS would fill from its own data, and links point at the live site. The Ambassador program page moved to `/ambassador/`; `/join/` redirects there. The faces and the room are OLOS's own photos (`public/assets/cohort-grid-sample.png`, `spotlights/`, `img_9531.jpg`), cropped into `public/home/`. |
 | `/ambassador/`, `/upskiller/`, `/poderator/`, `/mentor/`, `/supporting-member/` | **Unlisted drafts** (`noindex`) until the board approves the roles: one recruitment page per role button (`/ambassador/` is the Ambassador program page, with its brass moment pins; every "Become an ambassador" goes to `/apply/`), all from one template (`src/components/RolePage.astro`, styles in `src/styles/role.css`, words in `content/roles/<slug>.json`, the list of roles in `content/roles/roles.json`). The structure follows two product pages for a single round object, Apple's AirTag and Lusion's Oryzo; the look is the program page's (ink, the teal and red glows with the grain only inside them, Geologica, hairline rules, teal labels, The Futur's type steps). In order: the hero (the role's name, one line, and its button centred, with rings slowly spreading out from it; live 3D on wide screens with a mouse and a real GPU, a Cycles still otherwise); the intro (a few sentences, what the role asks of you, the one button); what you'll do (three moments as rows: label, line, sentence); in short (four facts with small icons); how it works (the steps, a white dot where the account starts and a teal one where the button is given); the button drawn face on from its print file, with its cut line, construction marks and callouts; which role is right for you (every role's button side by side, sideways-scrolling on narrow screens); questions; join. The buttons are the art script's output for each role word (`design/button/tools/button_art_text.py`), rendered in LabsPin.blend's "Button Hero" scene like the Ambassador one: `public/roles/<slug>/` (the web art for the 3D, the hero stills, and a small still for the comparison). Every path starts with the same free Upskilling account (OLOS manages everything centrally): each role's button goes to account creation on the live site with the role as `?path=<slug>` (proposed; OLOS doesn't read it yet), the first step on every path is "Create your account.", a line under each button says so, and every page's questions end with why. The logo always sits on the header's pool of ink; the band and blur across the top fade in once the page scrolls. Unset details are marked `[PLACEHOLDER]` and shown with a dashed underline. |
 | `/contributing/` | **Unlisted** (`noindex`, not linked from the program page) until the board approves the levels: the Contributor Community: joining it and working your way up. The hero says so ("Contributor Community") over the Contributing Member pin in live 3D (desktop with a real GPU; Cycles stills otherwise); why here (in person, beginners and experts side by side, learning by doing, local problems); four ways in (make something, take a role, teach what you know, or back it as a Supporting Member), then how the pin works whichever door you take; the way up, one section for the four levels (Contributing Member, Reviewer, Approver, Maintainer), each more workstreams hands-on: on wide screens the stage holds while you scroll and the pin builds level by level, a level picker jumps to any of them, and the pin can be dragged to turn; on phones the picker is tabs over one pin; how recognition happens; active or emeritus; what stays true. Like the program page, it's in three chapters, each opened by a full-width cover on the same macro shots of the pin (`src/components/JoinCover.astro`, with this page's taglines: Start anywhere, Go as far as you like, Yours for good). The 3D is `src/scripts/rankpin.ts` on top of `public/join/pin3d.js`; renders in `public/contributing/`. Copy in `content/site/contributing.json`, from `design/research/recognition-system.md`. `/roles/`, `/pin/` and `/contributors/` redirect here. |
 | `/apply/` | Getting in (orientation), one screen at a time, in the order that gives before it takes: The Labs in three minutes (the film, or the short read the questions are written from), the coordinator's ten-question quiz (eight right to pass, retry any time, a hint on each), the Ambassador Agreement, then your name (first and last, email, ZIP, who brought you in). Ends with **the pass**: "You're in", the button, your name, and "Show this to your coordinator", who hands you the button at the event. Then the signature question, **Who's first?**: one name, and your phone sends the dated invite (the same message as the Conversation step). People without a pre-approved invite see "Almost there" until the coordinator sends them an invite link; opening it confirms them. An invite link pre-fills the form and shows who invited them; a share link (`/apply/#ref=Name`) only fills "Who brought you in?". Copy in `content/site/apply.json`. |
@@ -141,7 +141,7 @@ The site never sends personal information anywhere. The ambassador application (
 
 ## Assets
 
-The home page's hero (`src/scripts/orbnet.ts`) is a live model of The Labs, plain WebGL 2, no library. The Labs as a federated, practice-based research network, drawn the way actor-network theory sees one: people, places, projects and knowledge are all actors (a warm dot, a teal square, a red diamond, a pale ring), and a Lab is nothing but their ties. Local Labs orbit the orb; a commons of contributors and shared knowledge circles it; contributors bridge each Lab to the commons. It behaves like a complex adaptive system: newcomers drift in and are pulled into the Lab with the strongest pull near them, and ideas that spread leave new ties. Gravity is the density of relationships: a dense Lab's actors orbit tighter and faster, it pulls in more newcomers, glows, bends the orbits under it into a deeper well, and past a density closes into a small orb of its own. Innovations are sparks: out along a project's ties (white), up through the commons to the orb (red), and, after the orb flares and a ripple crosses the orbits, back out to every Lab (teal); each spark strengthens the ties it crosses, and what reaches the orb leaves new knowledge in the commons. The orb is the logo's: its three bands are latitude bands round one pole, fitted to `orb-mark.png` (rolled 22.5° left, tilted 15.4° toward the viewer), coloured from the mark by latitude. The hero is a short story told by scrolling: the stage stays pinned while the camera moves through five shots (the logo's view under the title; inside the DC Lab, with a legend pinned to real actors; above the Labs, their gravity; a spark up to the orb and back out; and you), each with one line (`content/site/home.json`, `model`). Some of DC's people are real: the first cohort's portraits (`public/home/`), and the legend's People label pins to one of them. Your cursor is a newcomer the actors nearest it reach for, and clicking (or tapping) anywhere joins you to the nearest Lab with a spark of your own; the orb itself is the page's button, "Become an Upskiller", a real link laid over it and labelled from the first frame. The last shot ends in a choice of path (learn, share what you know, spread the word, keep a Pod together, each straight to the account with its path, or just drop into a session), and a chapter rail marks the shots and lets you skip the story. It's rendered into a high-range buffer with a finishing pass (bloom on true highlights, a gentle shoulder that keeps the brand colours, grain only in the light, a shockwave when an idea reaches the orb) and composited over the page with screen blending, so the title sits inside its light. Quality adapts to the frame rate; there's a pause button; reduced motion gets a still frame and the four lines as a list; no WebGL keeps the poster (`public/join/hub-poster.webp`). To re-render the poster and the share image, open `/?orb=poster` and save the canvas (it's drawn with `preserveDrawingBuffer`).
+The home page's hero (`src/scripts/orbnet.ts`) is a live model of The Labs, plain WebGL 2, no library. The Labs as a federated, practice-based research network, drawn the way actor-network theory sees one: people, places, projects and knowledge are all actors (a warm dot, a teal square, a red diamond, a pale ring), and a Lab is nothing but their ties. Local Labs orbit the orb; a commons of contributors and shared knowledge circles it; contributors bridge each Lab to the commons. It behaves like a complex adaptive system: newcomers drift in and are pulled into the Lab with the strongest pull near them, and ideas that spread leave new ties. Gravity is the density of relationships: a dense Lab's actors orbit tighter and faster, it pulls in more newcomers, glows, bends the orbits under it into a deeper well, and past a density closes into a small orb of its own. Innovations are sparks: out along a project's ties (white), up through the commons to the orb (red), and, after the orb flares and a ripple crosses the orbits, back out to every Lab (teal); each spark strengthens the ties it crosses, and what reaches the orb leaves new knowledge in the commons. The orb is the logo's: its three bands are latitude bands round one pole, fitted to `orb-mark.png` (rolled 22.5° left, tilted 15.4° toward the viewer), coloured from the mark by latitude. The hero is a short story told by scrolling, and it's for recruiting: it doesn't explain the structure, it gives the benefits one line at a time and leaves the model to carry the feeling of joining something bigger. The stage stays pinned while the camera moves through five shots, each with one line (`content/site/home.json`, `model`): the logo's view under the title; inside the DC Lab while its ideas spread (learn by building something real, on a team); close on a Pod, four people round their project passing ideas between them while the rest of the network steps back (free, in person, beside people who've been where you are); out between the Labs as an idea goes up to the orb and back out to all of them (what you build travels further than you); and you, over the whole system (be part of something bigger). Some of DC's people are real: the first cohort's portraits (`public/home/`), as two Pods of four. Your cursor is a newcomer the actors nearest it reach for, and clicking (or tapping) anywhere joins you to the nearest Lab with a spark of your own; the orb itself is the page's button, "Become an Upskiller", a real link laid over it and labelled from the first frame. The last shot ends in a choice of two paths (learn by building, or pass on what you know, each straight to the account with its path, and "Most people end up doing both"), or just drop into a session, and a chapter rail marks the shots and lets you skip the story. It's rendered into a high-range buffer with a finishing pass (bloom on true highlights, a gentle shoulder that keeps the brand colours, grain only in the light, a shockwave when an idea reaches the orb) and composited over the page with screen blending, so the title sits inside its light. Actors grow as a shot closes in by the shot's own framing, and flashes soften where a narrow screen packs the network tight, so a phone doesn't blur a Lab into white. Quality adapts to the frame rate; there's a pause button; reduced motion gets a still frame and the four lines as a list; no WebGL keeps the poster (`public/join/hub-poster.webp`). To re-render the poster and the share image, open `/?orb=poster` and save the canvas (it's drawn with `preserveDrawingBuffer`).
 
 `npm run covers` makes the portrait crops of the three chapter covers that phones get (`public/join/*-p-900.webp` and `*-p-1400.webp`, from the 1800w files, centred on each cover's `position`). The phone-sized orbits video (`orbits-600.mp4`, `orbits-600.webm`) was encoded with ffmpeg at 600px wide; re-encode it the same way if the source changes.
 
